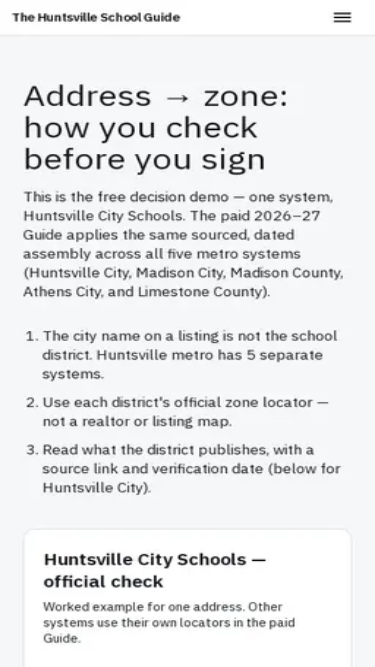
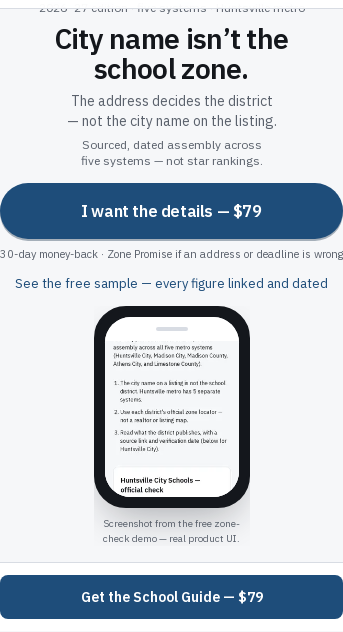
Fix mobile hero buy cluster above phone; distinct revenue-fold proof
Reorder ≤767 fold: H1, proof, mechanism, $79 CTA, guarantee chips, sample
link, then phone. Clip #hero-fold for revenue-fold PNGs vs full viewport
hormozi shots. Lift lead sourced fact into /sample demo card first screen.

diff --git a/components/sales-page.tsx b/components/sales-page.tsx
@@ -35,6 +35,7 @@ export function SalesPage() {
         <CheckoutNotice />
       </Suspense>
       <section
+        id="hero-fold"
         aria-labelledby="hero-heading"
         className="mx-auto flex w-full min-w-0 max-w-2xl flex-col items-center text-center"
       >
@@ -43,22 +44,24 @@ export function SalesPage() {
         </p>
         <h1
           id="hero-heading"
-          className="mt-2 font-sans text-[32px] font-bold leading-[1.08] tracking-tight text-text max-md:max-w-[20rem] sm:mt-4 sm:max-w-none sm:text-[44px] sm:leading-[1.06] lg:text-[48px]"
+          className="mt-2 font-sans text-[28px] font-bold leading-[1.08] tracking-tight text-text max-md:max-w-[20rem] sm:mt-4 sm:max-w-none sm:text-[44px] sm:leading-[1.06] lg:text-[48px]"
         >
           {hero.headline}
         </h1>
         <p
-          className="mt-3 w-full max-w-xl text-balance text-[15px] font-medium leading-snug text-text-muted sm:mt-4 sm:text-lg sm:leading-snug"
+          className="mt-2 w-full max-w-xl text-balance text-[14px] font-medium leading-snug text-text-muted sm:mt-4 sm:text-lg sm:leading-snug"
         >
           {hero.proofLineAboveFold}
         </p>
         <p
-          className="mt-2 w-full max-w-xl text-balance text-[13px] leading-snug text-text-muted sm:mt-3 sm:text-sm sm:leading-relaxed"
+          className="mt-1.5 w-full max-w-xl text-balance text-[12px] leading-snug text-text-muted sm:mt-3 sm:text-sm sm:leading-relaxed"
         >
           {hero.mechanismFold}
         </p>
-        <HeroPhonePreview />
-        <div className="mt-5 flex w-full max-w-sm flex-col items-center gap-3 sm:mt-7">
+        <div
+          id="hero-buy-cluster"
+          className="order-2 mt-3 flex w-full max-w-sm flex-col items-center gap-2 md:order-4 sm:mt-7 sm:gap-3"
+        >
           <CheckoutForm
             tierId="79"
             label={hero.cta}
@@ -72,7 +75,7 @@ export function SalesPage() {
             {hero.foldGuaranteeChips.join(" · ")}
           </p>
         </div>
-        <p className="mt-4 max-w-sm text-center">
+        <p className="order-3 mt-2 max-w-sm text-center md:order-5 sm:mt-4">
           <Link
             href="/sample"
             className="text-[13px] font-medium text-action underline-offset-4 hover:underline sm:text-sm"
@@ -80,7 +83,10 @@ export function SalesPage() {
             {hero.sampleDemoCue}
           </Link>
         </p>
-        <HeroProofBeatsBelowFold />
+        <HeroPhonePreview className="order-4 mt-3 max-md:max-w-[9.75rem] md:order-3 sm:mt-8" />
+        <div className="order-5 w-full md:order-6">
+          <HeroProofBeatsBelowFold />
+        </div>
         <div id="hero-fold-sentinel" className="h-px w-full" aria-hidden="true" />
       </section>
 

diff --git a/components/hero-phone-preview.tsx b/components/hero-phone-preview.tsx
@@ -2,10 +2,10 @@ import Image from "next/image";
 
 const SAMPLE_SCREENSHOT = "/proof/sample-guide-hero.png";
 
-export function HeroPhonePreview() {
+export function HeroPhonePreview({ className }: { className?: string }) {
   return (
     <div
-      className="mx-auto mt-5 w-full max-w-[15.5rem] overflow-hidden sm:mt-8 sm:max-w-[17.5rem]"
+      className={`mx-auto w-full max-w-[10.5rem] overflow-hidden sm:max-w-[17.5rem] ${className ?? ""}`}
       aria-hidden="true"
     >
       <div className="rounded-[2rem] border-[3px] border-text bg-text p-2 shadow-[0_18px_40px_-12px_rgba(20,23,28,0.35)]">
@@ -13,12 +13,12 @@ export function HeroPhonePreview() {
           <div className="flex items-center justify-center gap-1.5 bg-surface px-4 py-2.5">
             <span className="h-1 w-8 rounded-full bg-border" />
           </div>
-          <div className="relative aspect-[9/16] w-full max-w-full overflow-hidden bg-surface">
+          <div className="relative aspect-[9/16] w-full max-h-[11.5rem] max-w-full overflow-hidden bg-surface max-md:max-h-[9.75rem] sm:max-h-none">
             <Image
               src={SAMPLE_SCREENSHOT}
               alt=""
               fill
-              className="object-cover object-top"
+              className="object-cover object-[center_72%] max-md:object-[center_78%] sm:object-top"
               sizes="(max-width: 640px) 248px, 280px"
               priority
             />

diff --git a/app/sample/page.tsx b/app/sample/page.tsx
@@ -25,6 +25,7 @@ const FIVE_SYSTEM_LABELS =
 
 export default function SamplePage() {
   const facts = huntsvilleCityZoneDemoFacts();
+  const [leadFact, ...moreFacts] = facts;
 
   return (
     <PageShell>
@@ -70,8 +71,16 @@ export default function SamplePage() {
           Worked example for one address. Other systems use their own locators in
           the paid Guide.
         </p>
+        {leadFact ? (
+          <p className="mt-4 text-sm leading-relaxed text-ink">
+            <span className="font-medium text-ink">
+              {fieldLabel(leadFact.field)}:{" "}
+            </span>
+            <SourcedFact fact={leadFact} />
+          </p>
+        ) : null}
         <dl className="mt-6 space-y-5">
-          {facts.map((fact) => (
+          {moreFacts.map((fact) => (
             <div key={fact.field}>
               <dt className="text-sm text-muted">{fieldLabel(fact.field)}</dt>
               <dd className="mt-1 text-ink">

diff --git a/lib/sales-honesty.test.ts b/lib/sales-honesty.test.ts
@@ -214,9 +214,14 @@ describe("first-screen buy", () => {
     assert.match(heroSource, /hero\.headline/);
     assert.match(heroSource, /hero\.proofLineAboveFold/);
     assert.match(heroSource, /hero\.mechanismFold/);
+    assert.match(heroSource, /id="hero-buy-cluster"/);
     assert.match(heroSource, /hero\.foldGuaranteeChips/);
     assert.match(heroSource, /hero\.sampleDemoCue/);
     assert.match(heroSource, /href="\/sample"/);
+    assert.match(heroSource, /HeroPhonePreview className="order-4/);
+    const buyIdx = heroSource.indexOf('id="hero-buy-cluster"');
+    const phoneIdx = heroSource.indexOf("HeroPhonePreview");
+    assert.ok(buyIdx > 0 && phoneIdx > buyIdx, "buy cluster precedes phone in DOM for ≤767 flex order");
     assert.equal(
       heroSource.includes("hero.proofBeats.map"),
       false,
